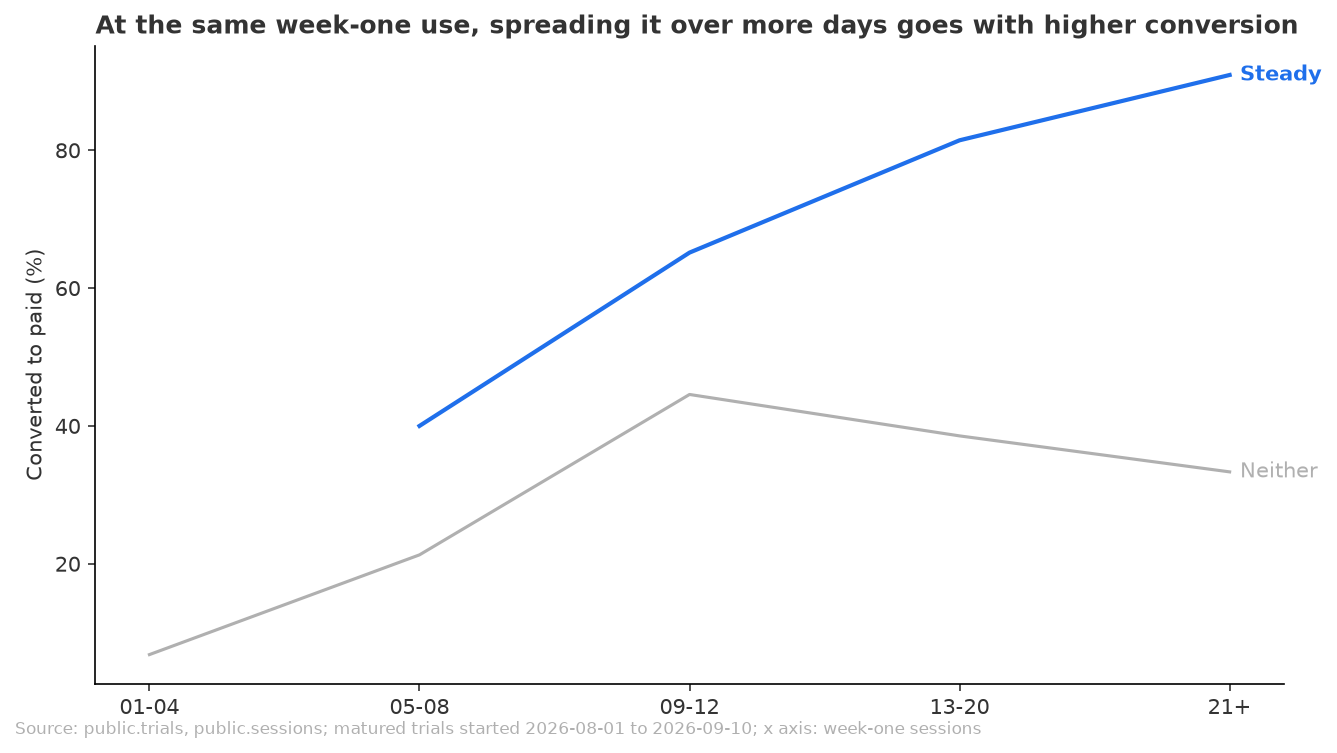
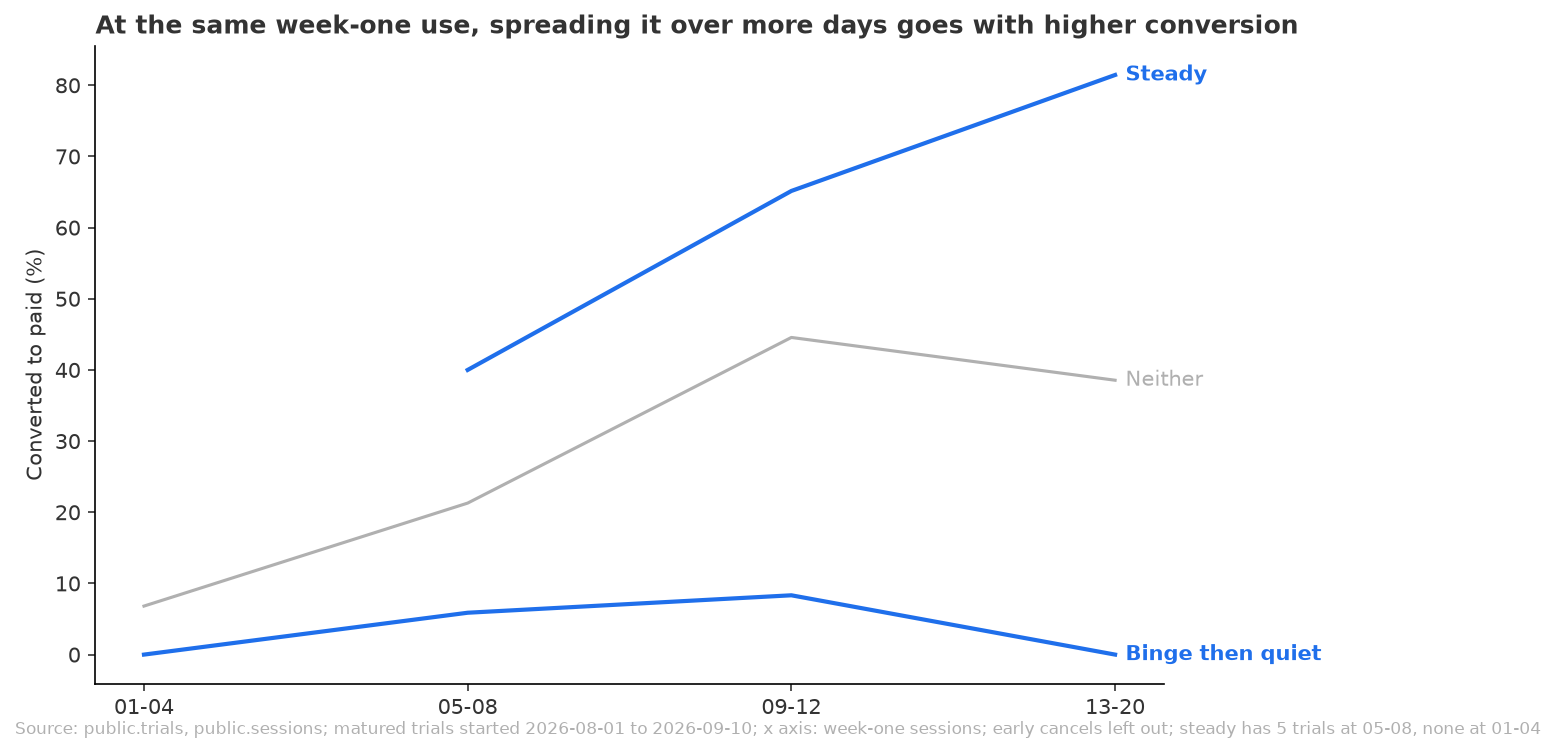
Validate round 1 fixes: real cancel checks, 4-of-7 steady variant, targetable groups, same-use intervals, money for targetable groups, chart labels

diff --git a/outputs/2026-11-17_trial-binge-vs-steady/analysis.py b/outputs/2026-11-17_trial-binge-vs-steady/analysis.py
@@ -119,24 +119,72 @@ for variant, g in sens.groupby("variant"):
     check(f"variant {variant} sums to its population", parts_sum_to_total(
         g["trials"], pop["matured_trials"] if variant in ("all_trials", "days_1_4_all_trials")
         else grp.loc[~grp["early_cancel"], "trials"].sum()))
+# The frame's starting steady definition (active on 4+ of the 7 week-one days) and the day-one bingers
+# an email can pick out on day 1, from conversion_by_day1_and_spread.
+spread = read("conversion_by_day1_and_spread")
+check("spread table sums to matured trials", parts_sum_to_total(spread["trials"], pop["matured_trials"]))
+check("spread table sums to converted trials", parts_sum_to_total(spread["converted"], pop["converted_trials"]))
+binge_q = (spread["day1_band"] == "4+") & (spread["active_days_week1"] <= 3)  # day 1 + at most 2 of days 2-7
+steady4 = spread["active_days_week1"] >= 4
+for name, keep in (("steady_4_of_7", ~spread["early_cancel"]), ("steady_4_of_7_all_trials", spread["early_cancel"] | True)):
+    b = spread[binge_q & keep][["trials", "converted"]].sum()
+    s = spread[steady4 & keep][["trials", "converted"]].sum()
+    r = {"variant": name, **gap(b["converted"], b["trials"], s["converted"], s["trials"])}
+    r["mde_pp_at_overall_rate"] = mde_pp(b["trials"], s["trials"], overall_rate)
+    rows.append(r)
 headline = pd.DataFrame(rows)
 headline.to_csv(DATA / "headline_gaps.csv", index=False)
+
+# Conversion by active days in week one, all matured trials, and within day-one bingers (4+ sessions).
+by_days = spread.groupby("active_days_week1", as_index=False)[["trials", "converted"]].sum()
+by_days["rate"] = by_days["converted"] / by_days["trials"]
+binger_days = spread[spread["day1_band"] == "4+"].groupby("active_days_week1", as_index=False)[["trials", "converted"]].sum()
+binger_days["rate"] = binger_days["converted"] / binger_days["trials"]
+by_days.merge(binger_days, on="active_days_week1", how="left", suffixes=("_all", "_day1_bingers")) \
+    .to_csv(DATA / "conversion_by_active_days_week1.csv", index=False)
+
+# Groups an email can pick out on day 1: day-one bingers (4+ sessions) vs other trials.
+target_rows = []
+for name, mask in (("day1_bingers_4plus", spread["day1_band"] == "4+"),
+                   ("day1_under_4", spread["day1_band"] != "4+"),
+                   ("day1_bingers_stayed_4plus_days", (spread["day1_band"] == "4+") & steady4),
+                   ("day1_bingers_quiet_3_or_fewer_days", binge_q)):
+    t = spread[mask][["trials", "converted"]].sum()
+    lo, hi = wilson(t["converted"], t["trials"])
+    target_rows.append({"group": name, "trials": int(t["trials"]), "converted": int(t["converted"]),
+                        "share_of_matured": t["trials"] / pop["matured_trials"],
+                        "rate": t["converted"] / t["trials"], "ci_low": lo, "ci_high": hi})
+targetable = pd.DataFrame(target_rows)
+targetable["vs_all_matured_pp"] = (targetable["rate"] - overall_rate) * 100
+targetable.to_csv(DATA / "targetable_groups.csv", index=False)
 
 # 3. Same total week-one use: steady and neither reweighted to the binge_quiet band mix ----
 band = read("conversion_by_week1_band")
 band["rate"] = band["converted"] / band["trials"]
 wide = band.pivot(index="week1_band", columns="trial_group", values=["trials", "converted", "rate"])
-bq_n = wide["trials"]["binge_quiet"].dropna()
-std_rows = []
-for other in ("steady", "neither"):
-    shared = [b for b in bq_n.index if pd.notna(wide["rate"][other].get(b)) and wide["trials"][other].get(b, 0) >= 5]
-    w = bq_n[shared] / bq_n[shared].sum()
-    other_rate = float((wide["rate"][other][shared] * w).sum())
-    bq_rate = float((wide["converted"]["binge_quiet"][shared].sum()) / bq_n[shared].sum())
-    std_rows.append({"comparison": f"binge_quiet vs {other} at binge_quiet's week-one use",
-                     "bands_used": "|".join(shared), "binge_quiet_trials": int(bq_n[shared].sum()),
-                     "binge_quiet_rate": bq_rate, "other_rate_reweighted": other_rate,
-                     "gap_pp": (other_rate - bq_rate) * 100})
+def same_use(target, other, min_band):
+    """Other group's rate reweighted to the target group's week-one-use mix, over bands where both
+    have trials and the other has at least min_band; the gap carries a 95% interval from the
+    stratified variance (sum of w^2 * binomial variance per band, both groups)."""
+    tn = wide["trials"][target].dropna()
+    shared = [b for b in tn.index if wide["trials"][other].get(b, 0) >= min_band]
+    w = tn[shared] / tn[shared].sum()
+    p_o = wide["rate"][other][shared]
+    p_t = wide["rate"][target][shared]
+    n_o = wide["trials"][other][shared]
+    other_rate = float((p_o * w).sum())
+    target_rate = float((p_t * w).sum())
+    var = float((w**2 * (p_o * (1 - p_o) / n_o + p_t * (1 - p_t) / tn[shared])).sum())
+    d = other_rate - target_rate
+    return {"comparison": f"{target} vs {other} at {target}'s week-one use", "min_band_trials": min_band,
+            "bands_used": "|".join(shared), "target_trials": int(tn[shared].sum()),
+            "target_rate": target_rate, "other_rate_reweighted": other_rate,
+            "gap_pp": d * 100, "gap_pp_ci_low": (d - Z * sqrt(var)) * 100, "gap_pp_ci_high": (d + Z * sqrt(var)) * 100}
+
+
+std_rows = [same_use("binge_quiet", "steady", 5), same_use("binge_quiet", "steady", 20),
+            same_use("binge_quiet", "neither", 5), same_use("neither", "steady", 5),
+            same_use("neither", "steady", 20)]
 standardised = pd.DataFrame(std_rows)
 standardised.to_csv(DATA / "same_use_comparison.csv", index=False)
 band.to_csv(DATA / "conversion_rate_by_week1_band.csv", index=False)
@@ -172,36 +220,54 @@ inertia = ren.groupby("trial_group", as_index=False)[["converted_trials", "first
 inertia.to_csv(DATA / "first_renewal_summary.csv", index=False)
 
 # 7. Session edges and cancel timing ------------------------------------------------------
-after = read("check_sessions_after_cancel")
+after = read("check_sessions_after_cancel").iloc[0]
 check("no sessions after a cancel inside the trial", {
-    "ok": True,
-    "summary": f"{int(after['sessions_after_outcome_day'].sum())} sessions after the outcome day across "
-               f"{int(after['trials'].sum())} trials, so a cancel ends activity and quiet after it is caused by it."})
+    "ok": int(after["sessions_after_cancel_day"]) == 0,
+    "summary": f"{int(after['sessions_after_cancel_day'])} sessions after the cancel day across "
+               f"{int(after['canceled_trials'])} canceled trials; at 0, quiet after a cancel is caused by the cancel."})
 cday = read("check_cancel_day")
 canc = cday[cday["outcome"] == "canceled"]
-check("cancel days", {
-    "ok": True,
-    "summary": f"cancels fall on trial days {canc['outcome_trial_day'].min()} to {canc['outcome_trial_day'].max()}, "
-               f"so days 1-4 always come before any cancel."})
+check("no cancel before trial day 5", {
+    "ok": int(canc["outcome_trial_day"].min()) >= 5,
+    "summary": f"cancels fall on trial days {canc['outcome_trial_day'].min()} to {canc['outcome_trial_day'].max()}; "
+               f"from day 5 on, days 1-4 always come before any cancel, which the days_1_4_all_trials variant needs."})
 
 # 8. Money at stake -----------------------------------------------------------------------
 plans = ren.groupby("plan")["converted_trials"].sum()
 annual_share = plans.get("annual", 0) / plans.sum()
 first_year_value = annual_share * ANNUAL_PRICE + (1 - annual_share) * 12 * MONTHLY_PRICE
-main_all = headline.set_index("variant").loc["all_trials"]
-bq_per_year = main_all["binge_quiet_trials"] / START_WINDOW_DAYS * 365
 trials_per_year = pop["matured_trials"] / START_WINDOW_DAYS * 365
-money = pd.DataFrame([{
-    "binge_quiet_trials_per_year": bq_per_year,
-    "all_trials_per_year": trials_per_year,
-    "gap_pp_all_trials": main_all["gap_pp"],
-    "extra_converters_per_year_if_steady_rate": bq_per_year * main_all["gap_pp"] / 100,
-    "annual_plan_share_of_converters": annual_share,
-    "first_year_value_per_converter_usd": first_year_value,
-    "money_at_stake_first_year_usd_ceiling": bq_per_year * main_all["gap_pp"] / 100 * first_year_value,
-    "all_trial_converters_first_year_usd": trials_per_year * overall_rate * first_year_value,
-}])
-money["money_at_stake_share_of_trial_revenue"] = money["money_at_stake_first_year_usd_ceiling"] / money["all_trial_converters_first_year_usd"]
+trial_revenue_year = trials_per_year * overall_rate * first_year_value
+su = standardised.set_index(["comparison", "min_band_trials"])["gap_pp"]
+steady_rate = mix.set_index("trial_group").loc["steady", "conversion_rate"]
+money_rows = []
+
+
+def money_row(group, scenario, trials, current_rate, gap_pp):
+    per_year = trials / START_WINDOW_DAYS * 365
+    extra = per_year * gap_pp / 100
+    money_rows.append({"group": group, "scenario": scenario, "trials_per_year": per_year,
+                       "current_rate": current_rate, "gap_pp": gap_pp,
+                       "extra_converters_per_year": extra, "first_year_value_per_converter_usd": first_year_value,
+                       "first_year_usd": extra * first_year_value,
+                       "share_of_trial_revenue": extra * first_year_value / trial_revenue_year})
+
+
+g = mix.set_index("trial_group")
+for grp_name in ("binge_quiet", "neither"):
+    rate = g.loc[grp_name, "conversion_rate"]
+    money_row(grp_name, "ceiling: reaches the steady rate", g.loc[grp_name, "trials"], rate, (steady_rate - rate) * 100)
+    money_row(grp_name, "same-use gap to steady (5+ trials per band)", g.loc[grp_name, "trials"], rate,
+              su[(f"{grp_name} vs steady at {grp_name}'s week-one use", 5)])
+tg = targetable.set_index("group")
+bq = tg.loc["day1_bingers_quiet_3_or_fewer_days"]
+stayed = tg.loc["day1_bingers_stayed_4plus_days"]
+money_row("binge_quiet (3 or fewer days)", "reaches the rate of day-one bingers who stayed (4+ days)",
+          bq["trials"], bq["rate"], (stayed["rate"] - bq["rate"]) * 100)
+money = pd.DataFrame(money_rows)
+money["annual_plan_share_of_converters"] = annual_share
+money["all_trials_per_year"] = trials_per_year
+money["all_trial_converters_first_year_usd"] = trial_revenue_year
 money.to_csv(DATA / "money_at_stake.csv", index=False)
 
 pd.DataFrame(checks).to_csv(DATA / "checks_summary.csv", index=False)
@@ -213,21 +279,29 @@ m = mix.set_index("trial_group").loc[order]
 charts.save(charts.bar(
     [labels[g] for g in order], (m["conversion_rate"] * 100).round(0),
     f"Steady trial users convert at {m.loc['steady', 'conversion_rate']:.0%}; day-one bingers who go quiet at {m.loc['binge_quiet', 'conversion_rate']:.0%}",
-    highlight=["Binge then quiet", "Steady"], ylabel="Converted to paid (%)", source=SOURCE),
+    highlight=["Binge then quiet", "Steady"], ylabel="Converted to paid (%)",
+    source=SOURCE + "; all 1,553 matured trials, early cancels included"),
     CHARTS / "conversion_by_group.png")
+charts.save(charts.bar(
+    [str(d) for d in by_days["active_days_week1"]], (by_days["rate"] * 100).round(0),
+    f"Conversion climbs from {by_days.loc[by_days['active_days_week1'] == 1, 'rate'].iloc[0]:.0%} for one active day "
+    f"in week one to {by_days.loc[by_days['active_days_week1'] == 7, 'rate'].iloc[0]:.0%} for all seven",
+    highlight=["7"], ylabel="Converted to paid (%)",
+    source=SOURCE + "; x axis: days with a session in trial days 1-7"),
+    CHARTS / "conversion_by_active_days.png")
 charts.save(charts.bar(
     [labels[g] for g in order], (m["share_of_matured"] * 100).round(0),
     f"Only {m.loc['binge_quiet', 'share_of_matured']:.0%} of trials binge on day one and then go quiet",
     highlight="Binge then quiet", ylabel="Share of matured trials (%)", source=SOURCE),
     CHARTS / "share_of_trials_by_group.png")
-sb = band[band["trial_group"] == "steady"]
-nb = band[band["trial_group"] == "neither"]
-bands = sorted(set(band["week1_band"]))
+# Bands where binge_quiet has trials, so all three lines share the x axis (21+ has no binge_quiet trials).
+bands = sorted(band.loc[band["trial_group"] == "binge_quiet", "week1_band"])
+rate_at = band.set_index(["trial_group", "week1_band"])["rate"]
 charts.save(charts.line(
-    bands, {"Steady": [sb.set_index("week1_band")["rate"].get(b, float("nan")) * 100 for b in bands],
-            "Neither": [nb.set_index("week1_band")["rate"].get(b, float("nan")) * 100 for b in bands]},
+    bands, {labels[g]: [rate_at.get((g, b), float("nan")) * 100 for b in bands] for g in order},
     "At the same week-one use, spreading it over more days goes with higher conversion",
-    highlight="Steady", ylabel="Converted to paid (%)", source=SOURCE + "; x axis: week-one sessions"),
+    highlight=["Binge then quiet", "Steady"], ylabel="Converted to paid (%)",
+    source=SOURCE + "; x axis: week-one sessions; early cancels left out; steady has 5 trials at 05-08, none at 01-04"),
     CHARTS / "conversion_by_week1_use.png")
 
 # 10. Print the headline -----------------------------------------------------------------
@@ -244,7 +318,10 @@ print(late[["trial_group", "avg_active_days_8_14", "share_no_sessions_8_14"]].ro
 print("\nSegments with enough trials in both groups:", int(sw["enough_trials"].sum()), "of", len(sw))
 print("\nFirst renewals:")
 print(inertia.to_string(index=False))
-print("\nMoney at stake:")
-print(money.round(3).T.to_string(header=False))
+print("\nGroups an email can pick out on day 1:")
+print(targetable.round(3).to_string(index=False))
+print("\nMoney at stake (first year):")
+print(money[["group", "scenario", "trials_per_year", "current_rate", "gap_pp", "extra_converters_per_year", "first_year_usd", "share_of_trial_revenue"]].round(3).to_string(index=False))
+print(f"All trial converters, first year: ${trial_revenue_year:,.0f}; first-year value per converter ${first_year_value:,.2f}")
 print("\nConversion by start month:")
 print(mg.round(3).to_string(index=False))

diff --git a/outputs/2026-11-17_trial-binge-vs-steady/frame.md b/outputs/2026-11-17_trial-binge-vs-steady/frame.md
@@ -36,6 +36,7 @@ Trials started 2026-08-01 to about 2026-09-10 that had ended by the analysis dat
 ## Additional context
 - The user asks that comparisons be made between similar time periods.
 - The user has no prior definition of binge or steady use and expects the analyst to propose one from the data.
+- 2026-11-17, before any outcome was looked at: the user approved the analysis plan's definitions, binge then quiet as 4+ day-1 sessions and active on at most 2 of days 2 to 7, steady as active on day 1 and on 5+ of days 2 to 7 (stricter than the 4-of-7 starting point above, which runs as a variant). Told that about 85 binge-then-quiet trials can only show a large gap (roughly 16 pp), the user chose to keep the definitions rather than loosen them.
 - The 2026-11-07 correction to exclude the trial period was made for a churn question and does not apply here; this question is about trials only.
 
 ## Out of scope
